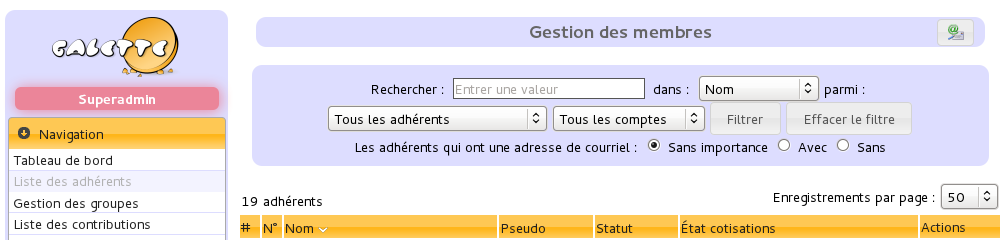
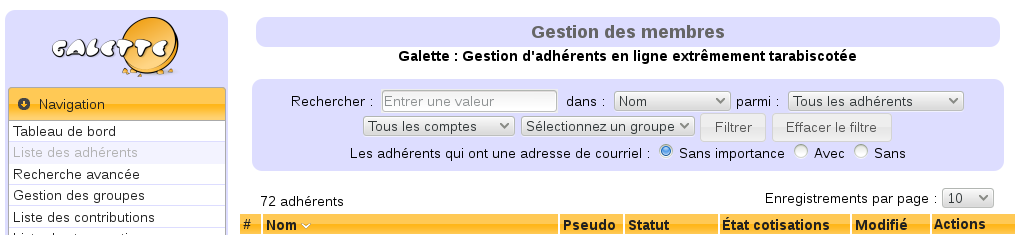
Mise à niveau pour Galette 0.8
Mise à jour de certaines captures écran
Reformulations
Corrections

diff --git a/source/installation/postinstall.rst b/source/installation/postinstall.rst
@@ -34,7 +34,7 @@ Une fois votre Galette correctement installée, il reste une ou deux petites cho
 Paramétrage des chemins
 =======================
 
-Certains chemins dans Galette sont paramétrables, comme le dossier des exports, l'emplacement des bibliothèques Zend, etc. Initialement, j'ai mis en place ce système pour me conformer aux règles d'empaquetage de Fedora qui veulent que chaque logiciel utilise la bibliothèque système plutôt qu'une version embarquée.
+Certains chemins dans Galette sont paramétrables, comme le dossier des exports, l'emplacement des bibliothèques, etc. C'est utile si vous souhaitez utiliser la bibliothèque côté système plutôt qu'une version embarquée.
 
 Par défaut, Galette est fourni avec l'ensemble de ces chemins pointant à l'intérieur du dossier d'installation. Ainsi, si l'installation se trouve dans le dossier ``/var/www/galette`` ; les exports seront effectués dans ``/var/www/galette/exports``, on ira chercher les bibliothèques Zend requises dans ``/var/www/galette/includes/Zend-{version}``, et ainsi de suite.
 La configuration par défaut est définie dans le fichier ``config/paths.inc.php``, qui ne doit pas être modifié.
@@ -60,18 +60,24 @@ Chemins des bibliothèques
 * `GALETTE_ANALOG_PATH` : le chemin de la :ref:`bibliothèque Analog <galettelog>`,
 * `GALETTE_PHP_MAILER_PATH` : le chemin vers la :ref:`bibliothèque PHPMailer <phpmailer>`,
 * `GALETTE_SMARTY_PATH` : le chemin vers la :ref:`bibliothèque Smarty <smarty>`.
+* `GALETTE_TCPDF_PATH` : le chemin vers la :ref:`bibliothèque TCPDF <pdf>`.
 
 Chemins de Galette
 ------------------
 
 Les chemins de Galette doivent pour la plupart impérativement être accessibles en écriture par le serveur web, sous peine de mauvais fonctionnement de l'application, et d'erreurs pas toujours très faciles à comprendre ou à tracer. Les deux seules exceptions à cette règle concernent les templates (le serveur web n'a aucun besoin d'écrire là dedans !) et les plugins (globalement, les droits en écriture ne sont pas requis sur les dossiers des plugins, mais il vous faudra vous référer à la documentation du plugin pour de plus amples informations).
 
+* `GALETTE_CONFIG_PATH` : chemin vers les fichiers de configuration de Galette,
+* `GALETTE_DATA_PATH` : chemin vers les données de Galette (depuis la version 0.8),
 * `GALETTE_TEMPLATES_PATH` : chemin vers les fichiers de template Smarty de Galette. Ces templates, et le code qu'ils contiennent sont très fortement liés à l'application, je vous déconseille vivement de modifier leur emplacement, de façon à ce qu'ils soient mis à jour systématiquement avec l'application,
 * `GALETTE_LOGS_PATH` : le chemin des logs de Galette ; vous pouvez changer ce paramètre à votre guise,
 * `GALETTE_COMPILE_DIR` : le chemin de compilation des templates Smarty, que vous pouvez également adapter sans scrupules,
 * `GALETTE_CACHE_DIR` : le chemin de cache, qui n'est actuellement utilisé que lors de la génération de PDF,
 * `GALETTE_PLUGINS_PATH` : le chemin des plugins de galette (attention, cela ne fonctionnera peut-être pas en fonction des plugins !! Cette possibilité reste en cours de développement),
 * `GALETTE_EXPORTS_PATH` : le chemin de stockage des exports CSV,
+* `GALETTE_IMPORTS_PATH` : le chemin de stockage des fichiers CSV à importer,
+* `GALETTE_ATTACHMENTS_PATH` : le chemin vers les fichiers attachés,
+* `GALETTE_FILES_PATH` : chemin vers les fichiers stockés pour les adhérents (champs dynamiques),
 * `GALETTE_PHOTOS_PATH` : le chemin de stockage des photos des adhérents, et des logos,
 * `GALETTE_SQLITE_PATH` : le chemin de la base SQLite, si vous souhaitez utiliser ce moteur de base de données.
 

diff --git a/source/usermanual/pdf_models.rst b/source/usermanual/pdf_models.rst
@@ -6,7 +6,7 @@ Modèles PDF
 
 Des modèles PDF sont disponibles pour différentes sorties.
 
-Actuellement, il existe un modèle factures et un modèle Reçu. Tous deux héritent d'un modèle Global.
+Actuellement, il existe un modèle factures et un modèle Reçu. Tous deux héritent d'un modèle `Global`.
 
 .. image:: ../_styles/static/images/usermanual/pdf_models.png
    :scale: 75%
@@ -16,20 +16,20 @@ Actuellement, il existe un modèle factures et un modèle Reçu. Tous deux héri
 Héritage des modèles
 ====================
 
-Le fait q'un modèle hérite d'un autre implique différentes choses du point de vue de Galette. Le modèle Gloabl comprend trois champs distincts :
+Le fait qu'un modèle hérite d'un autre implique différentes choses du point de vue de Galette. Le modèle Gloabl comprend trois champs distincts :
 
 * l'en-tête,
 * le pied de page,
 * les styles CSS.
 
-Tout modèles héritant qe Global obtiendra automatiquement les mêmes en-tête et pied de page, sauf si l enouveau modèle en définit de nouveau, dans ce cas, les valerus spécifiques uniquement seront appliquées.
+Tout modèle héritant de `Global` obtiendra automatiquement les mêmes en-tête et pied de page, sauf si le nouveau modèle les re-définit ; dans ce cas, les valeurs spécifiques uniquement seront appliquées.
 
-Dans le cas des propriétés CSS, c'st un peu différent. En effe,t les propriétés du modèle Global seront toujours appliquées, les propriétés spécifiques du modèle enfant viendront en sus (comme pour de vraies feuilles de style CSS en somme).
+Dans le cas des propriétés CSS, c'est un peu différent. En effet, les propriétés du modèle `Global` seront toujours appliquées, les propriétés spécifiques du modèle enfant viendront en sus (comme pour de vraies feuilles de style CSS en somme).
 
 Généralités
 ===========
 
-Les modèles sont décomposés en plusieurs parties. Outre l'en-tête, le pied de page et les styles CSS présentés au paragraphe précédent, un titre, un sous titre et un corps existeront pour les modèles dits enfants.
+Les modèles sont décomposés en plusieurs parties. Outre l'en-tête, le pied de page et les styles CSS présentés au paragraphe précédent, un titre, un sous titre et un corps existeront pour les modèles enfants.
 
 Chacun de ces champs prend en compte un certain nombre de remplacements automatiques, une petite icône en forme d'ampoule en haut à droite de l'interface vous donnere davantage de détails sur ce point. Les différents champs peuvent également contenir des textes internationnalisés de la forme `_T("My text")` qui utiliseront les :ref:`fonctionnalités de traduction standard de Galette <i18nsyntax>`.
 
@@ -45,4 +45,4 @@ Les modèles factures et reçus sont sensiblement identiques, titre mis à part.
    :align: center
    :alt: Modèle PDF Factures
 
-Comme vous pourrez le constater dans la capture d'écran ci-dessus, le modèle Facture utilisera les en-tête et pied de page par défaut définis dans le modèle Global, aucun style CSS n''est ajouté par dé&faut. Le :doc:`plugin AdminTools <../plugins/admintools>` vous permet de réinitialiser les modèles par défaut à tout moment.
+Comme vous pourrez le constater dans la capture d'écran ci-dessus, le modèle Facture utilisera les en-tête et pied de page par défaut définis dans le modèle `Global`, aucun style CSS n'est ajouté par défaut. Le :doc:`plugin AdminTools <../plugins/admintools>` vous permet de réinitialiser les modèles par défaut à tout moment.

diff --git a/source/usermanual/configuration.rst b/source/usermanual/configuration.rst
@@ -9,7 +9,7 @@ Champs obligatoires et visibilité des champs
 
 Lors de la saisie ou de la modification de fiches adhérents, certains champs sont marqués comme étant requis. Bien entendu, cette sélection par défaut peut ne pas vous convenir, mais vous avez la possibilité de paramétrer ça facilement :-)
 
-Depuis le menu `Configuration`, `Champs obligatoires`, vous aurez accès à la liste des champs de la fiche adhérent, il vous suffira pour chacun d'entre eux, de définir si oui ou non il est requis. Vous pourrez également définir à l'aide de cette interface la visibilité des champs (visibleaffichés, cachés ou visibles uniquement par les administrateurs).
+Depuis le menu `Configuration`, `Champs obligatoires`, vous aurez accès à la liste des champs de la fiche adhérent, il vous suffira pour chacun d'entre eux, de définir si oui ou non il est requis. Vous pourrez également définir à l'aide de cette interface la visibilité des champs (visibles, cachés ou visibles uniquement par les administrateurs).
 
 .. image:: ../_styles/static/images/usermanual/fields_config.png
    :scale: 50%
@@ -90,11 +90,11 @@ Si ce paramètre est actif, un courriel sera envoyé à l'adhérent lorsque :
 De même, un courriel sera envoyé à l'administrateur lorsque :
 
 * un nouvel adhérent est inscrit ou s'auto inscrit,
-* une cotisation est attachée à un compte.
+* une contribution est attachée à un compte.
 
 Les courriels ne seront bien entendus envoyés que si le paramétrage de Galette permet l'envoi de messages (et si cela est configuré correctement). L'envoi de messages aux administrateurs est configuré de manière globale dans les préférences ; tandis que l'envoi de message à l'adhérent passe par une case à cocher au coup par coup dans l'interface, sauf pour le mail d'auto-inscription qui sera envoyé systématiquement.
 
-Un certain nombre de variables - remplacées automatiquement lors de l'envoi - sont disponibles, à la fos pour le sujet et pour le corps du message. Certaines sont utilisables pour la totalité des messages, d'autres (comme les informations de l'adhérent ou son mot de passe) ne le sont que dans certains contextes spécifiques.
+Un certain nombre de variables - remplacées automatiquement lors de l'envoi - sont disponibles, à la fois pour le sujet et pour le corps du message. Certaines sont utilisables pour la totalité des messages, d'autres (comme les informations de l'adhérent ou son mot de passe) ne le sont que dans certains contextes spécifiques.
 
 Voici la liste des variables disponibles :
 

diff --git a/source/usermanual/adherents.rst b/source/usermanual/adherents.rst
@@ -59,6 +59,7 @@ Vous pourrez ainsi filtrer sur :
 * une recherche textuelle sur l'une des informations suivante :
 
   * le nom (nom, prénom et pseudo),
+  * la raison sociale,
   * l'adresse (adresse, complément d'adresse, code postal, ville et pays),
   * le courriel et les messageries instantanées (adresse de courriel, URL du site web, adresses MSN, ICQ et Jabber),
   * l'emploi,
@@ -80,6 +81,7 @@ Vous pourrez ainsi filtrer sur :
   * comptes actifs,
   * comptes inactifs
 
+* l'appartenance à un groupe,
 * la présence ou l'absence d'une adresse de courriel.
 
 Tout filtrage sera conservé le temps de votre session, vous pourrez ainsi aller modifier un paramétrage ou autre, et revenir sur la liste ; vous récupérerez automatiquement le filtre que vous aviez exécuté.
@@ -94,9 +96,10 @@ Il est possible de trier la liste des adhérents (filtrée ou non) sur toutes le
 * nom,
 * pseudo,
 * statut,
-* état de cotisation
+* état de cotisation,
+* date de modification.
 
-Dans les deux premiers cas (`nom` et `pseudo`), le résultat obtenu est assez transparent. En ce qui concerne le tri par `statut`, il est effectué sur la priorité des statuts. Enfin, l'ordonnancement par `état de cotisation` sera appliqué par date de création, exemption de cotisation et date d'échéance.
+Dans le cas des `nom`, `pseudo` et `date de modification`, le résultat obtenu est assez transparent. En ce qui concerne le tri par `statut`, il est effectué sur la priorité des statuts. Enfin, l'ordonnancement par `état de cotisation` sera appliqué par date de création, exemption de cotisation et date d'échéance.
 
 Configuration des champs CSV
 ^^^^^^^^^^^^^^^^^^^^^^^^^^^^
@@ -198,7 +201,7 @@ Une fois le fichier vierge récupéré et dûment rempli, vous devrez l'envoyer 
 
 .. note::
 
-   Si vous souhaitez envoyer un fichier plus volumineux, il vous est toujours possible de le déposer vous même via FTP dans le dossier ``galette/imports/`` ou de le scinder en plusieurs fichiers distincts, que vous pourrez alors importer un par un.
+   Si vous souhaitez envoyer un fichier plus volumineux, il vous est toujours possible de le déposer vous même via FTP dans le dossier ``galette/data//imports/`` ou de le scinder en plusieurs fichiers distincts, que vous pourrez alors importer un par un.
 
 La liste des fichiers envoyés est affichée dans le tableau dans la section `Fichiers existants`. Vous pourrez ici voir le fichier, le supprimer, ou encore procéder à son import :
 

diff --git a/source/usermanual/generalites.rst b/source/usermanual/generalites.rst
@@ -9,16 +9,16 @@ Les droits
 
 On distingue plusieurs niveaux de droits dans Galette, permettant l'accès à différentes parties et fonctionnalités de l'application. Les différents niveaux sont les suivants :
 
-* le super administrateur, qui est créé à l'installation ;
-* les administrateurs, qui sont des adhérents pour lesquels la case « administrateur » a été cochée ;
-* les membres du bureau, qui possèdent un statut particulier (Président, Trésorier, Secrétaire, ...) ;
-* les adhérents à jour, qui sont marqués comme actifs, et qui sont à jour de leurs cotisations ;
-* les adhérents qui sont marqués comme inactifs, ou qui ne sont pas à jour de leurs cotisations,
-* les simples visiteurs.
+* le **super administrateur**, qui est créé à l'installation ;
+* les **administrateurs**, qui sont des adhérents pour lesquels la case « administrateur » a été cochée ;
+* les **membres du bureau**, qui possèdent un statut particulier (Président, Trésorier, Secrétaire, ...) ;
+* les **adhérents à jour**, qui sont marqués comme actifs, et qui sont à jour de leurs cotisations ;
+* les **adhérents** qui sont marqués comme inactifs, ou qui ne sont pas à jour de leurs cotisations,
+* les simples **visiteurs**.
 
 Les membres du bureau, les administrateurs et le super administrateur peuvent créer ou modifier des adhérents, des cotisations, des transactions, effectuer des E-Mailings, ...
 
-Les administrateurs ont accès en plus à la configuration de l'application, à l'exception des informations de connexion du super administrateur. Par défaut, à la connexion, les administrateurs accèdent à un tableau de bord, sur lequel les dernières nouvelles de `Galette sur Twitter <http://twitter.com/galette_soft>`_ et de la `page Google+ de Galette <https://plus.google.com/116977415489200387309>`_ sont affichées.
+Les administrateurs ont également à la configuration de l'application, à l'exception des informations de connexion du super administrateur.
 
 Le super administrateur a accès à l'intégralité de l'application ; mais pas forcément à toutes les fonctionnalités. En effet, il ne s'agit pas d'un adhérent, il peut ne pas posséder certaines informations nécessaires. Il peut bien entendu modifier les informations de connexion le concernant, depuis les préférences de l'application.
 

diff --git a/source/installation/unix.rst b/source/installation/unix.rst
@@ -3,7 +3,7 @@
 Linux/Unix
 ==========
 
-L'installation de Galette sous Linux pré-suppose uniquement que vous ayez l'accès à un terminal sur le serveur, et les autorisations nécessaires pour adapter les droits sur les dossiers. Si vous utilisez Fedora `Fedora <http://fedora-fr.org>`_ ou `CentOS <http://centos.org>`_ ; vous pouvez choisir d'utiliser les paquets `RPM de Galette disponibles sur mon dépôt personnel <http://rpms.ulysses.fr>`_.
+L'installation de Galette sous Linux pré-suppose uniquement que vous ayez l'accès à un terminal sur le serveur, et les autorisations nécessaires pour adapter les droits sur les dossiers.
 
 Par exemple, sous `Fedora <http://fedora-fr.org>`_, vous lancerez (en root) :
 
@@ -18,13 +18,8 @@ Pour les systèmes protégés par SELinux, on entrera de surcroît :
 
 .. code-block:: bash
 
-   # semanage fcontext -a -t httpd_sys_rw_content_t '/var/www/html/galette/cache(/.*)?'
    # semanage fcontext -a -t httpd_sys_rw_content_t '/var/www/html/galette/config(/.*)?'
-   # semanage fcontext -a -t httpd_sys_rw_content_t '/var/www/html/galette/exports(/.*)?'
-   # semanage fcontext -a -t httpd_sys_rw_content_t '/var/www/html/galette/logs(/.*)?'
-   # semanage fcontext -a -t httpd_sys_rw_content_t '/var/www/html/galette/photos(/.*)?'
-   # semanage fcontext -a -t httpd_sys_rw_content_t '/var/www/html/galette/templates_c(/.*)?'
-   # semanage fcontext -a -t httpd_sys_rw_content_t '/var/www/html/galette/tempimages(/.*)?'
+   # semanage fcontext -a -t httpd_sys_rw_content_t '/var/www/html/galette/data(/.*)?'
    # restorecon -R -v /var/www/html/galette/
 
 De plus, vous devrez autoriser le serveur web à se connecter au réseau via un booléen SELinux :

diff --git a/source/installation/ftp.rst b/source/installation/ftp.rst
@@ -3,6 +3,10 @@
 FTP
 ===
 
+.. warning::
+
+   Certains logiciels utilisés pour la décompression de l'archive, ou pour l'envoi des fichiers en FTP peuvent corrompre les fichiers... Il est fortement recommandé sous Windows d'avoir recours à `7zip <http://www.7-zip.org/fr/>`_ pour la décompression et à `FileZilla <http://filezilla-project.org/>`_ pour l'envoi des fichiers.
+
 Une fois les sources récupérées en local, utilisez la commande :samp:`tar xjvf {galette.tar.bz2}` sous Linux/Unix/MacOS ou le `logiciel libre 7zip <http://www.7-zip.org/fr/>`_ sous Windows.
 
 Envoyez ensuite à l'emplacement prévu chez votre hébergeur, le dossier décompressé (ainsi que l'ensemble des dossiers et fichiers extraits) via un client FTP, par exemple le `logiciel libre FileZilla <http://filezilla-project.org/>`_.
@@ -18,12 +22,11 @@ Cas particuliers
 OVH
 ===
 
-Placer à la racine de l'hébergement un fichier ``.htaccess`` contenant les deux lignes suivantes qui vont respectivement activer le support PHP 5.3, et désactiver la fonctionnalité « guillemets magiques » (qui n'ont de magique que le nom... :-D) :
+Placer à la racine de l'hébergement un fichier ``.htaccess`` contenant la ligne suivante qui va activer le support PHP 5.4 :
 
 .. code-block:: apacheconf
 
-   SetEnv PHP_VER 5_TEST
-   SetEnv MAGIC_QUOTES 0
+   SetEnv SetEnv PHP_VER 5_4
 
 Ouvaton
 =======

diff --git a/source/usermanual/avancee.rst b/source/usermanual/avancee.rst
@@ -8,7 +8,7 @@ Utilisateurs avertis
 
    **Attention...**
 
-   N'utilisez les instructions suivantes qu'en toute connassance de cause... « La direction décline toute responsabilité [...] » :-D
+   N'utilisez les instructions suivantes qu'en toute connaissance de cause... « La direction décline toute responsabilité [...] » :-D
 
 Adaptation à votre charte graphique
 ===================================
@@ -40,7 +40,7 @@ Ce fichier contiendra un simple tableau PHP, ayant en index la chaîne originale
 
 La modification sera visible immédiatement dans Galette. Prenez particulièrement garde à recopier la chaîne originale telle quelle ; et à échapper les apostrophes (à l'aide d'un anti-slash). Comme dans le fichier original, on attend ici une ligne par chaîne modifiée.
 
-Pensez également à créer le fichier ``lang_english_local.php`` qui contiendra les traductions anglaises de la chaîne (une simple recopie de la clé normalement).
+Pensez également à créer le fichier ``lang_english_local.php`` qui contiendra les traductions anglaises des chaînes que vous auriez ajoutées (une simple recopie de la clé normalement).
 
 Ces surcharges ne s'appliquent pas actuellement aux plugins ; ces derniers étant chargés par l'application bien plus tard :-(
 

diff --git a/source/installation/update.rst b/source/installation/update.rst
@@ -15,8 +15,10 @@ Dans un premier temps, `téléchargez la dernière version de Galette <http://do
 Certains fichiers et répertoires contiennent des données et devraient être réintégrés à la nouvelle installation :
 
 * ``config/config.inc.php``. Si ce fichier est absent, Galette en créera un nouveau. Si le fichier est présent, les données qu'il contient seront automatiquement chargées (hormis le mot de passe) lors de la configuration du moteur de base de données. C'est le seul fichier qui est modifié par la procédure de mise à jour,
-* ``photos`` qui contient les photos de vos adhérents et votre logo,
-* ``exports`` qui contient les exports CSV (Galette 0.7.0 et versions ultérieures).
+* ``data/photos`` qui contient les photos de vos adhérents et votre logo,
+* ``data/exports`` qui contient les exports CSV (Galette 0.7.0 et versions ultérieures),
+* ``data/files`` qui contient les fichiers attachés aux adhérents (Galette 0.8 et versions ultérieures),
+* ``data/attachments`` qui contient les fichiers attachés aux mailings.
 
 Une fois la  mise à jour des fichiers effectuée, rendez-vous sur la page `http://localhost/galette/install/index.php`. Toutes les autres pages indiqueront qu'une mise à jour est requise.
 

diff --git a/source/usermanual/contributions.rst b/source/usermanual/contributions.rst
@@ -4,7 +4,7 @@ Gestion des contributions
 
 Galette vous permet de gérer les contributions émises par vos adhérents. On distingue différents types de contributions, une notion de transaction est également proposée.
 
-Une transaction, késako ? Comme il paraît qu'un petit exemple vaut mieux qu'un lon discours... Prenons trois adhérents d'une même association : Marc, Julie et Zac. Chacun est membre de l'association, dans un même groupe ou dans des groupes différents, cela importe peu.
+Une transaction, késako ? Comme il paraît qu'un petit exemple vaut mieux qu'un long discours... Prenons trois adhérents d'une même association : Marc, Julie et Zac. Chacun est membre de l'association, dans un même groupe ou dans des groupes différents, cela importe peu.
 
 Zac fait un chèque pour régler sa cotisation, celles de Marc et Julie, et aussi un don à l'association. Dans ce cas là, le chèque que fera Zac fera l'objet d'une transaction, qui lui sera rattachée, et qui sera ventilée en 4 contributions, sur chacun des trois membres (chacune attachée au membre voulu de Galette).
 

diff --git a/source/installation/galette.rst b/source/installation/galette.rst
@@ -76,7 +76,7 @@ Pour l'exemple, nous allons nous baser sur une base de données nommée `magalet
 
 * SQLite
 
-Pour SQLite, vous devrez dans un premier temps soit :ref:`définir le chemin de la base dans votre système de fichiers <configpaths>`, soit créer le dossier ``data`` dans le répertoire d'installation de Galette, et lui donner les droits adéquats. La base elle même sera créée automatiquement, aucune configuration compmlémentaire n'est requise
+Pour SQLite, si vous avez spécifié un :ref:`chemin pour la base dans votre système de fichiers <configpaths>`, assurez-vous de lui donner les droits adéquats. Si cette directive n'est pas renseignée, la base sera stockée dans le dossier ``data``. La base elle même sera créée automatiquement, aucune configuration compmlémentaire n'est requise
 
 Les commandes décrites ci dessus peuvent varier, référez vous aux documentations de `MySQL <http://dev.mysql.com/doc/#refman>`_, de `PostgreSQL <http://docs.postgresqlfr.org>`_ ou de `SQLite <https://sqlite.org/>`_ selon votre cas ; ou utilisez un outil graphique :
 

diff --git a/source/installation/preparation.rst b/source/installation/preparation.rst
@@ -21,13 +21,16 @@ Il faut porter une attention particulière aux droits de certains dossiers de Ga
 
 Le processus d'installation ne vous permettra pas d'installer Galette s'il ne lui est pas possible d'écrire dans les dossiers adéquats :
 
-* |folder| `cache`,
 * |folder| `config` [#configdirperms]_,
-* |folder| `exports`,
-* |folder| `logs`,
-* |folder| `photos`,
-* |folder| `templates_c`,
-* |folder| `tempimages`,
+* |folder| `data/attachments`,
+* |folder| `data/cache`,
+* |folder| `data/exports`,
+* |folder| `data/files`,
+* |folder| `data/imports`,
+* |folder| `data/logs`,
+* |folder| `data/photos`,
+* |folder| `data/tempimages`,
+* |folder| `data/templates_c`
 
 .. [#configdirperms] Les droits en écriture dans le dossier ``config`` sont requis uniquement le temps de l'installation de Galette, nous vous conseillons de les supprimer une fois votre Galette installée :-)
 
